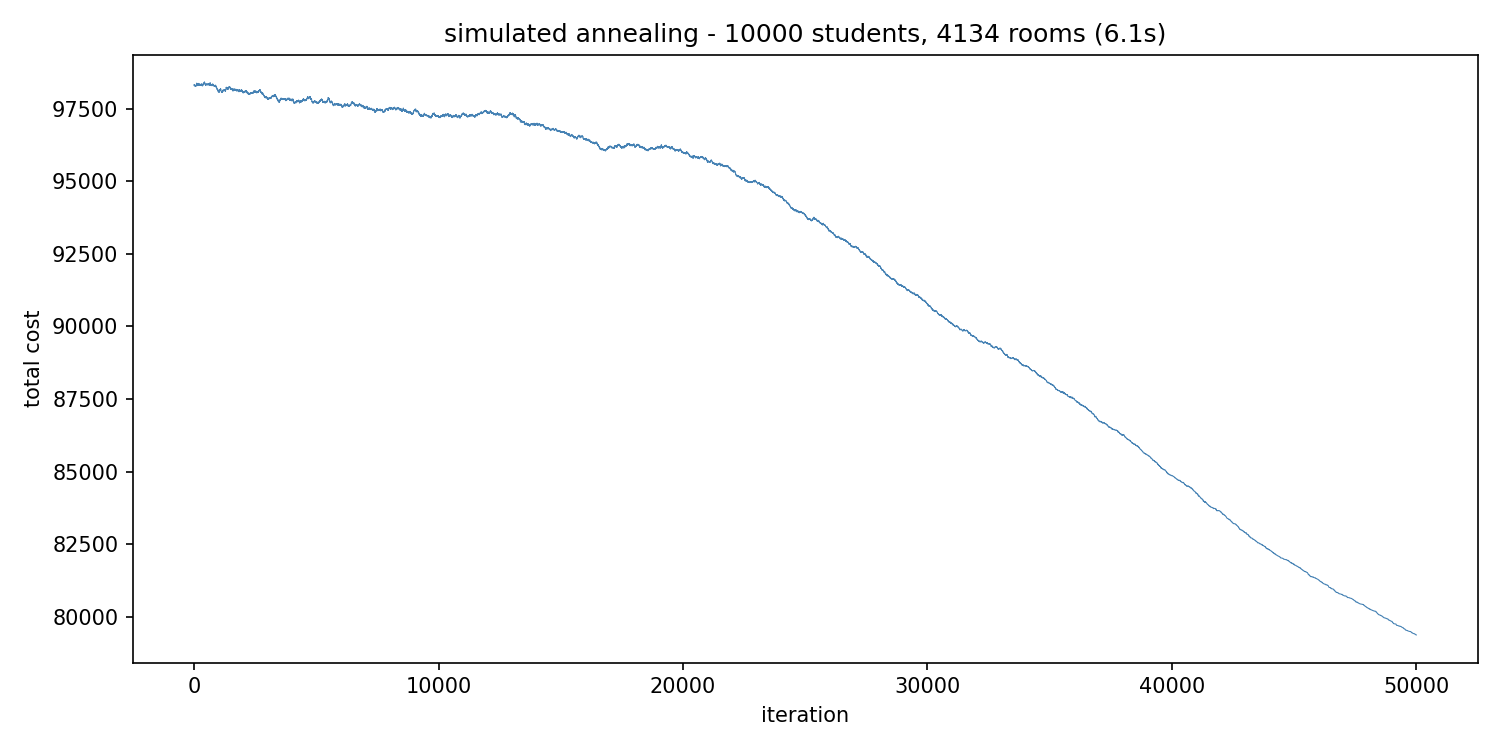
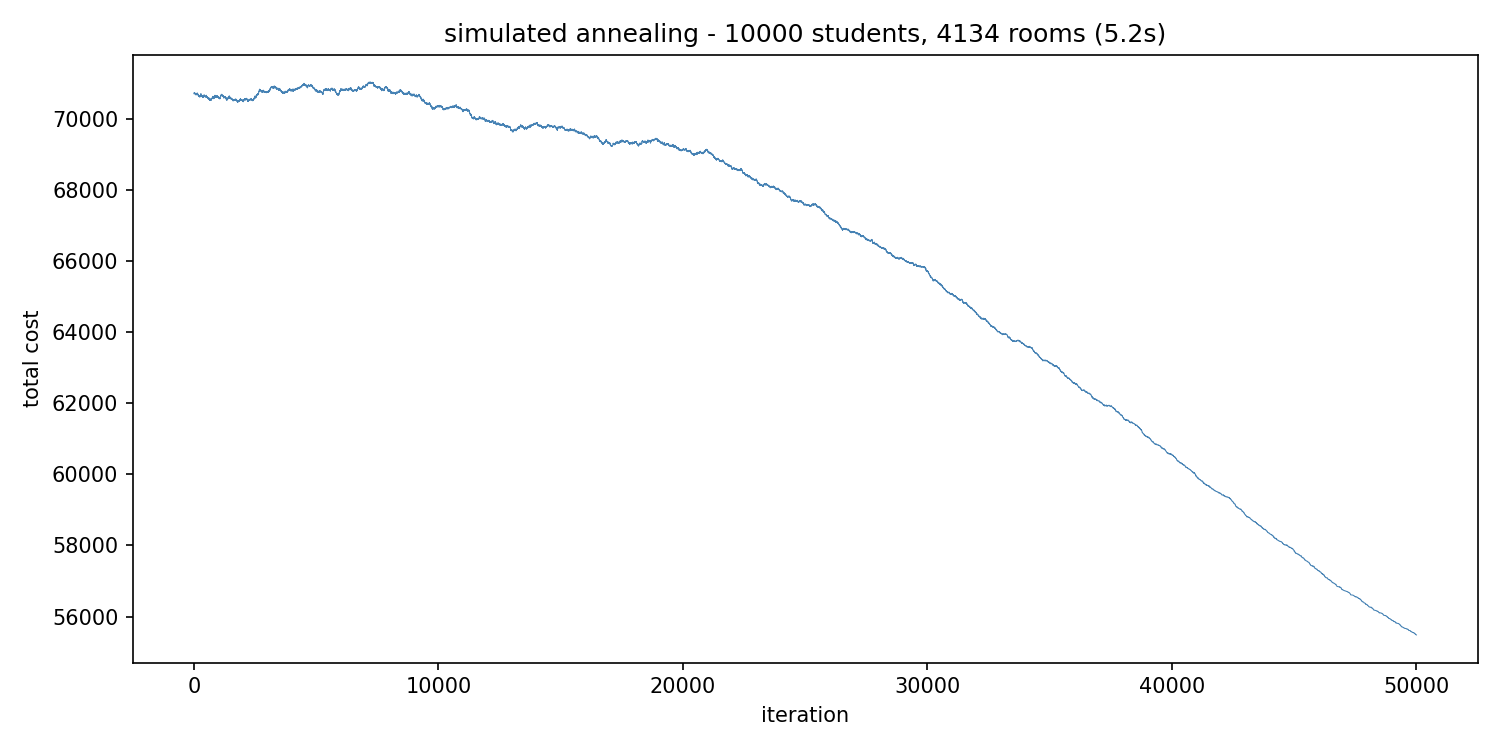
update sa with shared objective function

diff --git a/algorithms/simulated_annealing.py b/algorithms/simulated_annealing.py
@@ -1,10 +1,9 @@
 """
-simulated_annealing.py - SA for roommate matching
-CS4100 AI Project - Shray
+simulated_annealing.py - sa for roommate matching
+cs4100 ai project - shray
 
-assigns students to rooms  considering both:
--how compatible roommates are with each other
--how well the room features match what students want
+assigns students to rooms using the same objective function
+as the hill climbing so we can compare results fairly
 """
 
 import random
@@ -16,19 +15,16 @@ import numpy as np
 
 sys.path.insert(0, os.path.join(os.path.dirname(__file__), ".."))
 from shared.objective import (
-    load_data, assignment_cost, student_pair_cost, room_match_cost
+    load_data, assignment_cost, room_cost
 )
 
 
 def make_initial_assignment(n_students, room_capacities):
-    """
-    randomly assign students to rooms
-    picks rooms until we have enough capacity for all students
-    """
-    # figures out which rooms we need
+    """randomly throw students into rooms as a starting point"""
     indices = list(range(len(room_capacities)))
     random.shuffle(indices)
 
+    # pick rooms until we have enough space for everyone
     selected_rooms = []
     total_cap = 0
     for idx in indices:
@@ -37,7 +33,7 @@ def make_initial_assignment(n_students, room_capacities):
         if total_cap >= n_students:
             break
 
-    # shuffles students and fill rooms
+    # shuffle students and fill rooms up
     students = list(range(n_students))
     random.shuffle(students)
 
@@ -55,57 +51,23 @@ def make_initial_assignment(n_students, room_capacities):
     return assignment
 
 
-def get_neighbor(assignment):
-    """
-    swap one student between two random rooms
-    """
-    rooms = list(assignment.keys())
-    if len(rooms) < 2:
-        return assignment
-
-    r1, r2 = random.sample(rooms, 2)
-
-    if len(assignment[r1]) == 0 or len(assignment[r2]) == 0:
-        return assignment
-
-    # picks a random student from each room and swap
-    i = random.randint(0, len(assignment[r1]) - 1)
-    j = random.randint(0, len(assignment[r2]) - 1)
-
-    new_assignment = {k: v[:] for k, v in assignment.items()}
-    new_assignment[r1][i], new_assignment[r2][j] = new_assignment[r2][j], new_assignment[r1][i]
-
-    return new_assignment
-
-
-def room_cost(room_idx, student_indices, student_prefs, student_features, room_features):
-    """cost for a single room - used for fast delta calculation"""
-    cost = 0
-    for i in range(len(student_indices)):
-        for j in range(i + 1, len(student_indices)):
-            cost += student_pair_cost(
-                student_prefs, student_features,
-                student_indices[i], student_indices[j]
-            )
-        cost += room_match_cost(
-            student_features, room_features,
-            student_indices[i], room_idx
-        )
-    return cost
-
-
 def simulated_annealing(
-    student_prefs, student_features, room_features, room_capacities,
+    student_prefs, roommate_pref, student_features, room_features, room_capacities,
     initial_temp=100.0, cooling_rate=0.9999, min_temp=0.01, max_iter=50000
 ):
     """
-    SA that assigns students to rooms
-    only recalculates cost for the two rooms that changed
+    main sa loop
+    - start with random room assignments
+    - each iteration pick two rooms and swap a student between them
+    - always accept if its better, sometimes accept if worse (based on temp)
+    - cool down so we stop accepting bad moves over time
+    - only recalculate cost for the two rooms that changed not all of them
     """
     n_students = len(student_prefs)
 
     current = make_initial_assignment(n_students, room_capacities)
-    current_cost = assignment_cost(current, student_prefs, student_features, room_features)
+    current_cost = assignment_cost(current, student_prefs, roommate_pref,
+                                   student_features, room_features)
 
     best = {k: v[:] for k, v in current.items()}
     best_cost = current_cost
@@ -119,20 +81,22 @@ def simulated_annealing(
         if temp < min_temp:
             break
 
-        # pick two rooms to swap between
         rooms = list(current.keys())
         if len(rooms) < 2:
             break
 
+        # pick two random rooms
         r1, r2 = random.sample(rooms, 2)
         if len(current[r1]) == 0 or len(current[r2]) == 0:
             continue
 
-        # old cost of just these two rooms
-        old_cost_r1 = room_cost(r1, current[r1], student_prefs, student_features, room_features)
-        old_cost_r2 = room_cost(r2, current[r2], student_prefs, student_features, room_features)
+        # cost of these two rooms before the swap
+        old_cost_r1 = room_cost(r1, current[r1], student_prefs, roommate_pref,
+                                student_features, room_features)
+        old_cost_r2 = room_cost(r2, current[r2], student_prefs, roommate_pref,
+                                student_features, room_features)
 
-        # make the swap
+        # pick one student from each room and swap them
         i = random.randint(0, len(current[r1]) - 1)
         j = random.randint(0, len(current[r2]) - 1)
 
@@ -140,12 +104,15 @@ def simulated_annealing(
         new_r2 = current[r2][:]
         new_r1[i], new_r2[j] = new_r2[j], new_r1[i]
 
-        # new cost of just these two rooms
-        new_cost_r1 = room_cost(r1, new_r1, student_prefs, student_features, room_features)
-        new_cost_r2 = room_cost(r2, new_r2, student_prefs, student_features, room_features)
+        # cost after the swap
+        new_cost_r1 = room_cost(r1, new_r1, student_prefs, roommate_pref,
+                                student_features, room_features)
+        new_cost_r2 = room_cost(r2, new_r2, student_prefs, roommate_pref,
+                                student_features, room_features)
 
         delta = (new_cost_r1 + new_cost_r2) - (old_cost_r1 + old_cost_r2)
 
+        # always accept better, sometimes accept worse
         if delta < 0:
             accept = True
         else:
@@ -156,6 +123,7 @@ def simulated_annealing(
             current[r2] = new_r2
             current_cost += delta
 
+        # keep track of the best we ever found
         if current_cost < best_cost:
             best = {k: v[:] for k, v in current.items()}
             best_cost = current_cost
@@ -167,17 +135,19 @@ def simulated_annealing(
     return best, best_cost, cost_history, elapsed
 
 
-# running it
+# --- run it ---
 if __name__ == "__main__":
     random.seed(42)
 
-    students_df, rooms_df, student_prefs, student_features, room_features, room_capacities = \
+    # load the data
+    students_df, rooms_df, student_prefs, roommate_pref, \
+        student_features, room_features, room_capacities = \
         load_data("data/students.csv", "data/rooms.csv")
 
-    print(f"running SA on {len(students_df)} students, {len(rooms_df)} rooms...\n")
+    print(f"running sa on {len(students_df)} students, {len(rooms_df)} rooms...\n")
 
     best_assignment, best_cost, history, elapsed = simulated_annealing(
-        student_prefs, student_features, room_features, room_capacities,
+        student_prefs, roommate_pref, student_features, room_features, room_capacities,
         initial_temp=100.0,
         cooling_rate=0.9999,
         min_temp=0.01,
@@ -190,16 +160,17 @@ if __name__ == "__main__":
     print(f"runtime:        {elapsed:.2f} seconds")
     print(f"rooms used:     {len(best_assignment)}\n")
 
-    # show first 10 rooms
+    # show some example rooms
     print("sample room assignments (first 10):")
     for idx, (room_idx, student_indices) in enumerate(list(best_assignment.items())[:10]):
         room_name = rooms_df.iloc[room_idx]["room_name"]
         cap = room_capacities[room_idx]
         student_names = [students_df.iloc[s]["name"] for s in student_indices]
-        rc = room_cost(room_idx, student_indices, student_prefs, student_features, room_features)
+        rc = room_cost(room_idx, student_indices, student_prefs, roommate_pref,
+                       student_features, room_features)
         print(f"  {room_name} (cap {cap}): {', '.join(student_names)}  | cost: {rc}")
 
-    # plot
+    # plot the cost over time
     try:
         import matplotlib.pyplot as plt
 

diff --git a/shared/objective.py b/shared/objective.py
@@ -1,89 +1,80 @@
 """
-objective.py - Shared cost function for roommate matching
-CS4100 AI Project
+objective.py - shared cost function for roommate matching
+cs4100 ai project
 
-cost function considers:
-1. how compatible the students in a room are with each other
-2. how well the room's features match what each student wants
+everyone imports from here so all our algorithms use the same
+cost function and we can actually compare results
 """
 
 import numpy as np
 import pandas as pd
-from itertools import combinations
 
 
-# student preference columns (for comparing students to each other)
-PREF_COLS = ["sleep", "clean", "noise", "roommate_count"]
+# columns we compare between students in a room
+PREF_COLS = ["sleep", "clean", "noise"]
 
-# feature columns - student wants vs room has
+# feature stuff - what students want vs what rooms have
 FEATURE_NAMES = ["ac", "private_bath", "balcony", "kitchen", "laundry", "wifi", "parking"]
 STUDENT_FEATURE_COLS = [f"wants_{f}" for f in FEATURE_NAMES]
 ROOM_FEATURE_COLS = [f"has_{f}" for f in FEATURE_NAMES]
 
 
 def load_data(students_path, rooms_path):
-    """
-    load both csvs and pull out the numpy arrays we need
-    for fast cost calculation
-    """
+    """load both csvs and pull out numpy arrays for fast math"""
     students_df = pd.read_csv(students_path)
     rooms_df = pd.read_csv(rooms_path)
 
-    # numpy arrays for fast math
+    # just the columns we need for pairwise comparison
     student_prefs = students_df[PREF_COLS].values.astype(int)
+
+    # how many roommates each student wants
+    roommate_pref = students_df["roommate_count"].values.astype(int)
+
+    # binary feature columns
     student_features = students_df[STUDENT_FEATURE_COLS].values.astype(int)
     room_features = rooms_df[ROOM_FEATURE_COLS].values.astype(int)
     room_capacities = rooms_df["capacity"].values.astype(int)
 
-    return students_df, rooms_df, student_prefs, student_features, room_features, room_capacities
+    return (students_df, rooms_df, student_prefs, roommate_pref,
+            student_features, room_features, room_capacities)
 
 
-def student_pair_cost(student_prefs, student_features, i, j):
+def room_cost(room_idx, student_indices, student_prefs, roommate_pref,
+              student_features, room_features):
     """
-    compatibility cost between two students
-    = sum of absolute differences in preferences
-    + number of features they disagree on
+    cost for one room. three parts:
+    1. pairwise compatibility - |sleep| + |clean| + |noise| for every pair
+    2. roommate count - penalty if student wants 2 roommates but has 3 etc
+    3. feature mismatch - student wants ac but room doesnt have it
     """
-    pref_diff = int(np.sum(np.abs(student_prefs[i] - student_prefs[j])))
-    feat_diff = int(np.sum(np.abs(student_features[i] - student_features[j])))
-    return pref_diff + feat_diff
+    cost = 0
+    n = len(student_indices)
+    actual_roommates = n - 1
+
+    for i in range(n):
+        si = student_indices[i]
+
+        # compare this student with every other student in the room
+        for j in range(i + 1, n):
+            sj = student_indices[j]
+            cost += int(np.sum(np.abs(student_prefs[si] - student_prefs[sj])))
+
+        # how far off is the roommate count from what they wanted
+        cost += abs(int(roommate_pref[si]) - actual_roommates)
+
+        # features they want but room doesnt have
+        wants = student_features[si]
+        has = room_features[room_idx]
+        cost += int(np.sum(wants * (1 - has)))
+
+    return cost
 
 
-def room_match_cost(student_features, room_features, student_idx, room_idx):
-    """
-    how well does a student fit in this room?
-    penalty for each feature the student wants but room doesnt have
-    """
-    wants = student_features[student_idx]
-    has = room_features[room_idx]
-    # only penalize when student wants it (1) but room doesn't have it (0)
-    penalty = int(np.sum(wants * (1 - has)))
-    return penalty
-
-
-def assignment_cost(assignment, student_prefs, student_features, room_features):
-    """
-    total cost of an assignment
-    assignment = dict of {room_idx: [list of student indices]}
-    
-    cost = sum of all pairwise student costs in each room
-         + sum of room feature mismatch penalties for each student
-    """
+def assignment_cost(assignment, student_prefs, roommate_pref,
+                    student_features, room_features):
+    """total cost across all rooms"""
     total = 0
-
     for room_idx, student_indices in assignment.items():
-        # pairwise student compatibility
-        for i in range(len(student_indices)):
-            for j in range(i + 1, len(student_indices)):
-                total += student_pair_cost(
-                    student_prefs, student_features,
-                    student_indices[i], student_indices[j]
-                )
-
-            # room feature mismatch for each student
-            total += room_match_cost(
-                student_features, room_features,
-                student_indices[i], room_idx
-            )
-
+        total += room_cost(room_idx, student_indices, student_prefs,
+                          roommate_pref, student_features, room_features)
     return total
